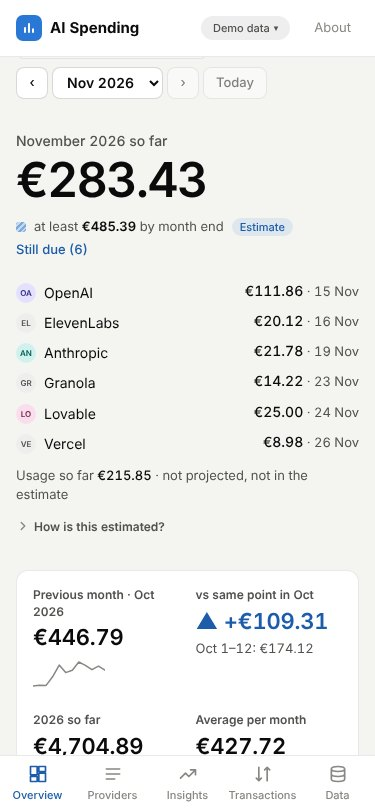
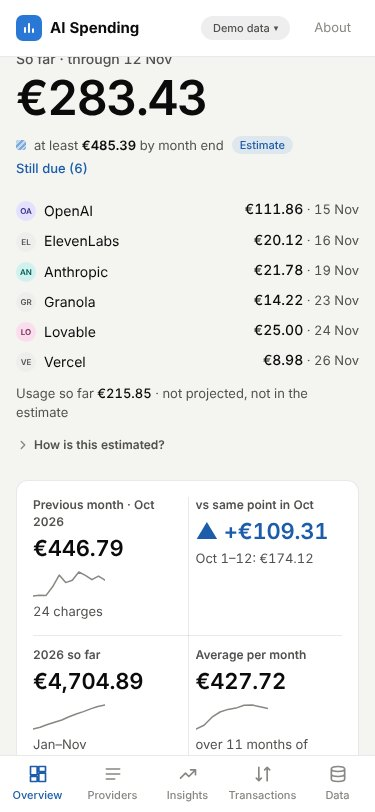
Screenshots, README and changelog for the Overview polish
Claude-Session: https://claude.ai/code/session_01Qfp4rLyXRfcCbxc21jCuL9

diff --git a/README.md b/README.md
@@ -43,7 +43,7 @@ npm run licenses:check  # fail on a non-permissive dependency license or an out-
 
 | Page | What you get |
 |---|---|
-| **Overview** (how much) | Three rows. **Row 1** is the hero, on the page background: the period's total under its label ("November 2026 so far", "October 2026 total", "2026 so far", "All time") in a 48px figure, and for the month in progress "at least €X by month end" with a hatched swatch and an Estimate pill; **Still due (N)** opens the recurring charges that estimate adds (provider, amount, expected date) and how it is worked out. Beside it, one card of four stat tiles that follow the period picker: *Month*: previous month, vs the same point in the previous month (a past month: vs the previous month), the year so far, average per month; *Year*: previous year, vs the same months of the previous year, average per month, highest month; *All time*: average per month, highest month, charges, providers. When either period holds one-time charges you confirmed, one short line gives the comparison without them. Sparklines show the last 12 monthly totals where that means something; the comparison tile has none. **Row 2**: the monthly chart (two thirds; stacked by provider, category or commitment type: subscription / usage / one-time, with a toggle top right) with the selected month solid and the others faded to about 38%, the month in progress topped by hatched segments for the charges still due and a "≥ €X" label, and **Who it went to** (one third): the top six providers for the period with avatar, amount, share and a bar, then the rest as Other. **Click a bar to pick that month**, exactly as the date selector does (from Year view it switches to Month view for that month). **Row 3**: the period's charges, largest first (top 5, then **Show all**, with **Open in Transactions** to the same period pre-filtered), and the **Budget** card (one line and a button to set one, or a bar of recorded plus still due against it). "Data through" the newest charge is the one date used everywhere on the page. Switch between Month / Year / All time in the header; a Today button next to the arrows jumps to the current month or year (as far as the data reaches), and is disabled while it is already selected. On a phone the order is the hero, Still due, the tiles (two columns), the chart, Who it went to, the charges and the budget. |
+| **Overview** (how much) | Three rows. **Row 1** is the hero, on the page background: the period's total under a short label ("So far · through 12 Nov" for the month in progress, "So far this year · through 12 Nov" for the year in progress, otherwise "Total"; the period picker says which month or year) in a 48px figure, and for the month in progress "at least €X by month end" with a hatched swatch and an Estimate pill; **Still due (N)** opens the recurring charges that estimate adds (provider, amount, expected date) and how it is worked out. Beside it, one card of four stat tiles (equal heights, a vertical and a horizontal divider, a meta line on each) that follow the period picker: *Month*: previous month, vs the same point in the previous month (a past month: vs the previous month), the year so far, average per month; *Year*: previous year, vs the same months of the previous year, average per month, highest month; *All time*: average per month, highest month, charges, providers. When either period holds one-time charges you confirmed, one short line gives the comparison without them. Sparklines sit on the value line at one width and show the last 12 monthly totals where that means something; the comparison tile has none. **Row 2**: the monthly chart (two thirds; stacked by provider, category or commitment type: subscription / usage / one-time, with a toggle top right) with the selected month solid and the others faded to about 38%, the month in progress topped by hatched segments for the charges still due and a "≥ €X" label, and **Who it went to** (one third): the top six providers for the period with avatar, amount, share and a bar, then the rest as Other (a grey "+N" avatar). **Click a bar to pick that month**, exactly as the date selector does (from Year view it switches to Month view for that month). **Row 3**: the period's charges, largest first (top 5, then **Show all**, with **Open in Transactions** to the same period pre-filtered), and the **Budget** card (one line and a button to set one, or a bar of recorded plus still due against it). "Data through" the newest charge is the one date used everywhere on the page. Switch between Month / Year / All time in the header; a Today button next to the arrows jumps to the current month or year (as far as the data reaches), and is disabled while it is already selected. On a phone the order is the hero, Still due, the tiles (two columns), the chart, Who it went to, the charges and the budget. |
 | **Providers** (who) | All providers with all-time total, spending in the selected period, a **trend arrow** (the last 3 complete months against the 3 before, one-time charges left out; an arrow only when the change is more than 5% and more than €5, otherwise flat), share, transaction count, and first / most recent charge. Search, sort any column, and filter by category and commitment type. Click a provider for its detail page, laid out like the Overview: a chart card (that provider's months for the selected year, following the period picker; click a bar to pick that month; the charges still due stack on the current month, and the axis starts at the provider's first charge) beside an **At a glance** card (all-time total with rank and share, charges, typical charge, last charge, and the provider's settings: a tag for new charges and a category). Below, its **charge types** (the one place to say what each is): a row shows the label or statement description, what it is read as, charges, total, last charge and status pills ("App's guess" until you confirm it; price change, overlap, stopped); open a row to change its label or type and to see its schedule, next charge, price history, overlap and whether anything still charges. Charge types with the same label are one plan. Then its full transaction history. A "To review" column shows how many charge types you have not confirmed yet. |
 | **Transactions** | Searchable, sortable table with original merchant descriptors and amounts. Filter by provider and date range (or "Use selected period"). Filters live in the URL, so provider pages and the overview link straight into a filtered view. Click a row to jump to its provider. Each charge can carry a tag (Personal, Business, a client), singly or for everything shown at once, and a charge imported by mistake can be deleted (with a confirmation). The type of a charge is shown but not changed here: it links to the provider page. |
 | **Insights** | What the data says, in four groups. **Patterns**: monthly spending with a 3-month average, subscription, usage and one-time over time ("more tools or more usage?"), and recurring-looking patterns. **Shifts**: price changes ("went from €22.49 to €109.38 in Jun") and stopped subscriptions with a check that nothing still charges. **Suggestions**: overlapping tools ("2 chat assistants · €130/month combined") and what ending each would save. **Comparisons**: year-over-year by calendar month, yearly totals with like-for-like comparison, biggest increases and decreases by provider (last 3 months vs the 3 before, or year to date vs last year), and provider concentration. Anything the app worked out is marked **App's read**, with the reasoning behind a "How are these found?" toggle. See [Insights](#insights). |
@@ -51,7 +51,7 @@ npm run licenses:check  # fail on a non-permissive dependency license or an out-
 
 **The ledger is fact, everything else is inference.** Amounts, dates and providers are shown plainly. Anything the app worked out (a subscription, a next charge, a stopped one, an estimate, a charge's type) is marked as the app's read or an estimate, and the reasoning is one click away.
 
-Works on desktop and mobile, in light and dark mode. A top bar carries the five pages and **About** (the Welcome page); on a phone the five pages are a bottom tab bar. Every page is built from the same few components (card, stat tile, pill, provider avatar, table, button, input, segmented control) in `src/components/ui.tsx`, with the colours, type sizes and spacing in `src/tokens.css`. Provider colours are assigned once by all-time spend and stay the same across every chart; the 6 largest providers get their own colour (indigo, teal, orange, amber, pink, blue) and the rest share a grey "Other". Categories use the same hues (Domains is a deep pink), and the commitment types are Subscription indigo, Usage teal and One-time amber. The palette is validated for lightness, chroma, colour-blind separation and contrast in light and dark mode; the notes are in `src/lib/colors.ts`.
+Works on desktop and mobile, in light and dark mode. The five main pages have no title of their own, with the period controls at the top right; a provider's page keeps its title. A top bar carries the five pages and **About** (the Welcome page); on a phone the five pages are a bottom tab bar. Every page is built from the same few components (card, stat tile, pill, provider avatar, table, button, input, segmented control) in `src/components/ui.tsx`, with the colours, type sizes and spacing in `src/tokens.css`. Provider colours are assigned once by all-time spend and stay the same across every chart; the 6 largest providers get their own colour (indigo, teal, orange, amber, pink, blue) and the rest share a grey "Other". Categories use the same hues (Domains is a deep pink), and the commitment types are Subscription indigo, Usage teal and One-time amber. The palette is validated for lightness, chroma, colour-blind separation and contrast in light and dark mode; the notes are in `src/lib/colors.ts`.
 
 ## Statement extractor
 

diff --git a/CHANGELOG.md b/CHANGELOG.md
@@ -5,6 +5,7 @@ All notable changes to this project are listed here. The format follows [Keep a 
 ## [Unreleased]
 
 ### Changed
+- Overview polish: the four stat tiles have equal heights, a vertical and a horizontal divider, the sparkline on the value line at one width, and a meta line each (Previous month and Previous year say how many charges they hold); the hero is bottom-aligned with the tile card; "Other" in Who it went to has a grey +N avatar. The five main pages have no page title (the top bar says where you are; a hidden heading keeps the outline) and the Overview hero label is "So far · through 12 Nov" / "So far this year · through 12 Nov" / "Total"; the Overview header no longer has a "Data through" line (provider pages and the Data page keep theirs).
 - Overview layout and visual refresh. Row 1 is a hero on the page background (the period total at 48px; for the month in progress "at least €X by month end" with **Still due (N)**) beside one card of four stat tiles with sparklines, which follow Month, Year and All time. Row 2 is the monthly chart and **Who it went to** (top six providers plus Other). Row 3 is the period's charges and the **Budget** card. The "Month in context" card is gone.
 - New palette: indigo, teal, orange, amber, pink and blue for providers, a grey Other, the same hues for categories (Domains is a deep pink so no two neighbours clash) and indigo, teal and amber for Subscription, Usage and One-time. Validated in light and dark; orange and amber were moved in lightness where the validator required it. Bars of periods that are not selected fade to 38%.
 - Type scale: hero 48px, stat tile values 22px. Sections inside a card are separated by 24px of space, not divider lines (tables and lists keep theirs).
